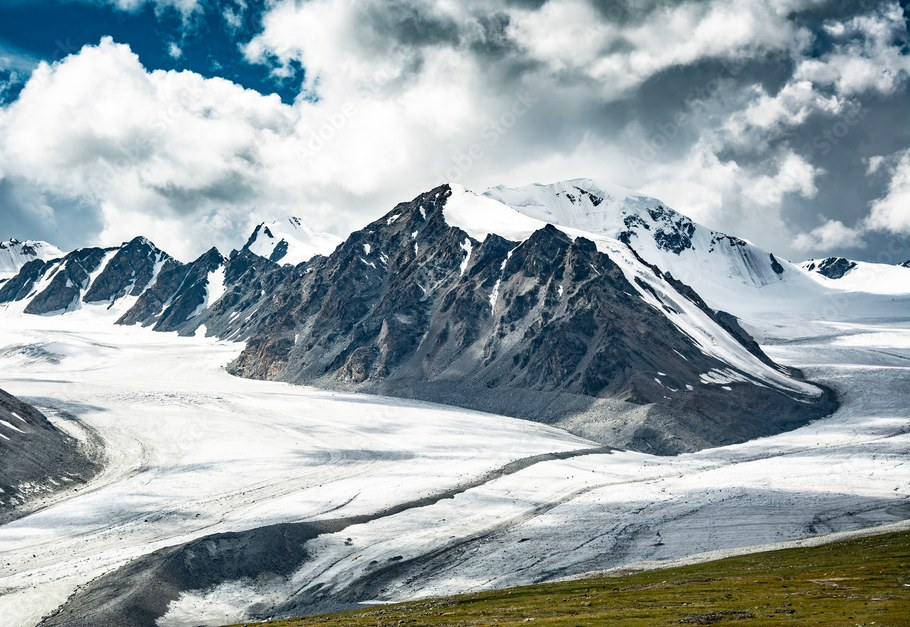
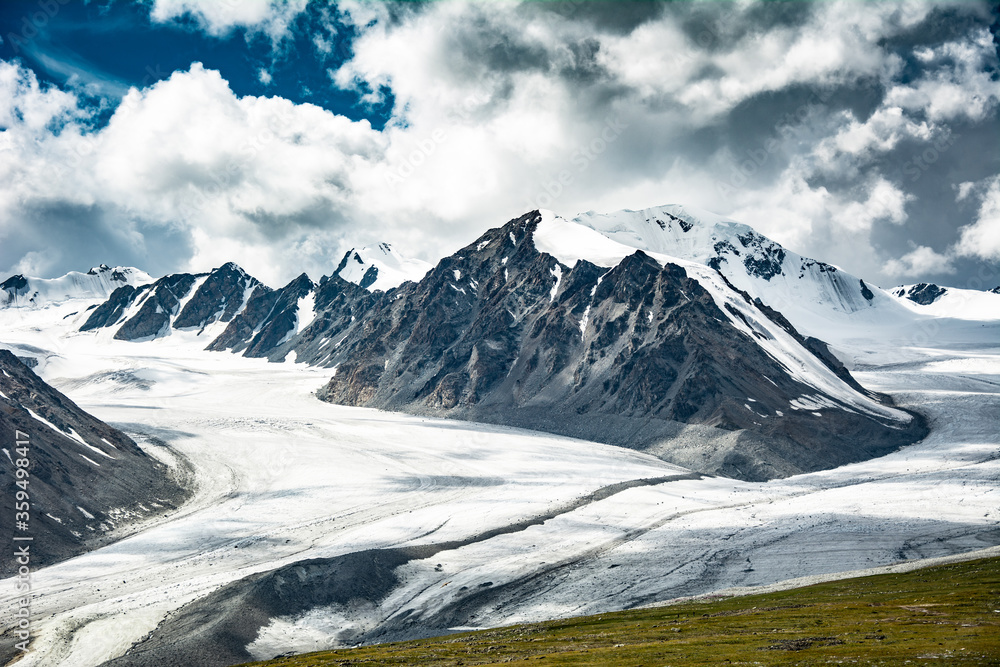
Strengthen living hero motion and lock user photo hashes
Serve store hero assets byte-identical under public/brand/. Make Ken
Burns, cloud/sky drift, and rainbow↔glacier crossfade (~16s) clearly
visible while keeping mobile-friendly durations.

diff --git a/src/app/globals.css b/src/app/globals.css
@@ -134,51 +134,71 @@
       );
   }
 
-  /* Multi-layer living landscape: Ken Burns + crossfade + sky drift */
+  /* Living landscape — clearly visible but calm motion */
   .hero-layer {
+    transform: translateZ(0);
+    backface-visibility: hidden;
     will-change: transform, opacity;
   }
 
   .hero-layer-a {
-    transform-origin: 48% 40%;
+    transform-origin: 46% 38%;
     animation:
-      hero-kenburns-a 64s ease-in-out infinite alternate,
-      hero-crossfade-a 36s ease-in-out infinite;
+      hero-kenburns-a 28s ease-in-out infinite alternate,
+      hero-crossfade-a 16s ease-in-out infinite;
   }
 
   .hero-layer-b {
-    transform-origin: 60% 32%;
+    transform-origin: 62% 34%;
     animation:
-      hero-kenburns-b 72s ease-in-out infinite alternate,
-      hero-crossfade-b 36s ease-in-out infinite;
+      hero-kenburns-b 32s ease-in-out infinite alternate,
+      hero-crossfade-b 16s ease-in-out infinite;
   }
 
   .hero-clouds {
     background:
       radial-gradient(
-        120% 60% at 18% 14%,
-        rgb(255 255 255 / 0.2),
-        transparent 55%
+        130% 70% at 12% 10%,
+        rgb(255 255 255 / 0.32),
+        transparent 58%
       ),
       radial-gradient(
-        90% 50% at 78% 18%,
-        rgb(255 255 255 / 0.14),
-        transparent 50%
+        100% 55% at 82% 16%,
+        rgb(255 255 255 / 0.22),
+        transparent 52%
+      ),
+      radial-gradient(
+        80% 40% at 48% 8%,
+        rgb(200 220 255 / 0.12),
+        transparent 55%
       );
     mix-blend-mode: soft-light;
-    animation: hero-clouds 48s ease-in-out infinite alternate;
+    animation: hero-clouds 22s ease-in-out infinite alternate;
     will-change: opacity, transform;
   }
 
   .hero-sky-drift {
     background: linear-gradient(
-      105deg,
+      100deg,
       transparent 0%,
-      rgb(255 255 255 / 0.06) 42%,
-      transparent 68%
+      rgb(255 255 255 / 0.14) 40%,
+      transparent 72%
     );
-    animation: hero-sky-drift 50s linear infinite;
+    animation: hero-sky-drift 26s linear infinite;
     will-change: transform, opacity;
+  }
+}
+
+@media (max-width: 640px) {
+  /* Slightly lighter GPU load on phones; motion still obvious */
+  .hero-layer-a {
+    animation-duration: 34s, 18s;
+  }
+  .hero-layer-b {
+    animation-duration: 38s, 18s;
+  }
+  .hero-clouds {
+    animation-duration: 28s;
   }
 }
 
@@ -227,29 +247,30 @@
 
 @keyframes hero-kenburns-a {
   0% {
-    transform: scale(1.02) translate3d(0, 0, 0);
+    transform: scale(1.04) translate3d(0.4%, 0.2%, 0);
   }
   100% {
-    transform: scale(1.1) translate3d(-1.6%, -1%, 0);
+    transform: scale(1.16) translate3d(-2.4%, -1.6%, 0);
   }
 }
 
 @keyframes hero-kenburns-b {
   0% {
-    transform: scale(1.08) translate3d(1.2%, -0.4%, 0);
+    transform: scale(1.14) translate3d(2%, -0.8%, 0);
   }
   100% {
-    transform: scale(1.02) translate3d(-0.8%, 0.6%, 0);
+    transform: scale(1.05) translate3d(-1.4%, 1%, 0);
   }
 }
 
+/* Full loop 16s ≈ scene swap every ~8s hold + fade (rainbow↔glacier) */
 @keyframes hero-crossfade-a {
   0%,
-  38% {
+  40% {
     opacity: 1;
   }
   50%,
-  88% {
+  90% {
     opacity: 0;
   }
   100% {
@@ -259,11 +280,11 @@
 
 @keyframes hero-crossfade-b {
   0%,
-  38% {
+  40% {
     opacity: 0;
   }
   50%,
-  88% {
+  90% {
     opacity: 1;
   }
   100% {
@@ -273,25 +294,25 @@
 
 @keyframes hero-clouds {
   0% {
-    opacity: 0.5;
-    transform: translate3d(0, 0, 0);
+    opacity: 0.45;
+    transform: translate3d(-2%, 0.5%, 0) scale(1.02);
   }
   100% {
-    opacity: 0.9;
-    transform: translate3d(3%, -1.4%, 0);
+    opacity: 0.95;
+    transform: translate3d(4.5%, -2%, 0) scale(1.08);
   }
 }
 
 @keyframes hero-sky-drift {
   0% {
-    transform: translate3d(-18%, 0, 0);
-    opacity: 0.25;
+    transform: translate3d(-22%, 0, 0);
+    opacity: 0.2;
   }
   50% {
-    opacity: 0.45;
+    opacity: 0.55;
   }
   100% {
-    transform: translate3d(18%, 0, 0);
-    opacity: 0.25;
+    transform: translate3d(22%, 0, 0);
+    opacity: 0.2;
   }
 }

diff --git a/src/components/chat/home-hero.tsx b/src/components/chat/home-hero.tsx
@@ -90,19 +90,23 @@ export function HomeHero({
   return (
     <div className="relative flex min-h-0 flex-1 flex-col overflow-hidden">
       <div className="absolute inset-0 overflow-hidden" aria-hidden>
-        {/* Primary: rainbow valley — slow Ken Burns */}
+        {/* Primary: rainbow valley (store genghis-hero-rainbow.webp) */}
         {/* eslint-disable-next-line @next/next/no-img-element */}
         <img
           src="/brand/hero-rainbow.webp"
           alt=""
-          className="hero-layer hero-layer-a absolute inset-0 h-full w-full object-cover object-[50%_42%]"
+          decoding="async"
+          fetchPriority="high"
+          className="hero-layer hero-layer-a absolute inset-0 h-full w-full max-w-none object-cover object-[50%_42%]"
         />
-        {/* Secondary: glacier (cropped) — opposite drift + soft crossfade */}
+        {/* Secondary: glacier — object-position hides left Adobe bar */}
         {/* eslint-disable-next-line @next/next/no-img-element */}
         <img
           src="/brand/hero-glacier.jpg"
           alt=""
-          className="hero-layer hero-layer-b absolute inset-0 h-full w-full object-cover object-[58%_35%]"
+          decoding="async"
+          loading="lazy"
+          className="hero-layer hero-layer-b absolute inset-0 h-full w-full max-w-none object-cover object-[68%_38%]"
         />
         <div className="hero-clouds pointer-events-none absolute inset-0" />
         <div className="hero-sky-drift pointer-events-none absolute inset-0" />
